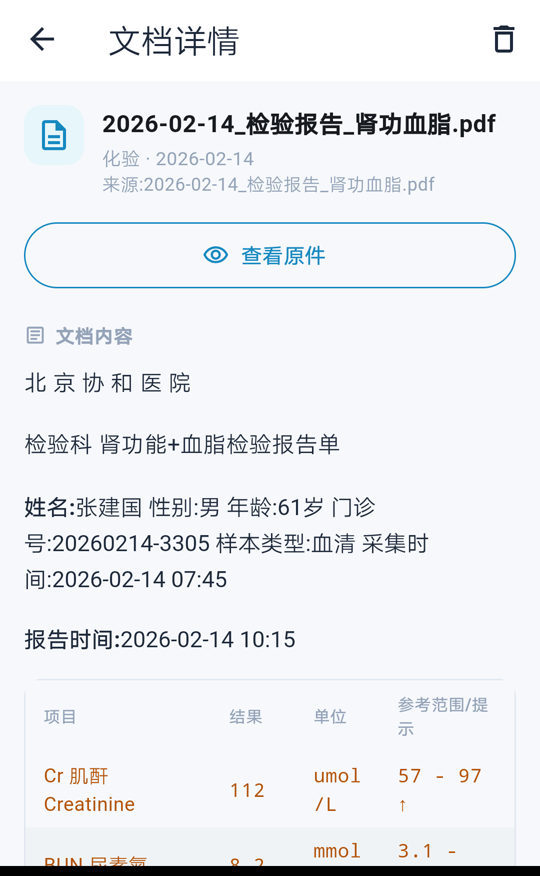
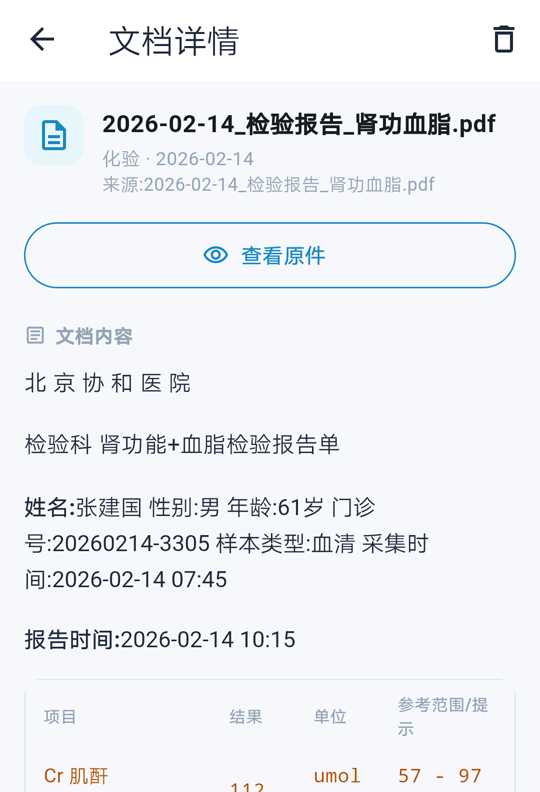
fix(site): 三张截图统一成 540x792,底边和配文对齐
上一版我把第一张顶部那半行残缺卡片裁掉,它就比另外两张矮 84px,
三张底边不齐、下面的配文也跟着错开。三张统一裁到同一高度。

diff --git a/index.html b/index.html
@@ -441,12 +441,12 @@
         <span>协和、浙大、上海交大…… 谁家看的都在这儿,不用再翻微信找照片。</span>
       </figure>
       <figure class="shot">
-        <img src="demo/shot-original.png" width="540" height="876" alt="文档详情:顶部「查看原件」按钮,下面是识别出的检验报告文字与化验值表格,肌酐 112 标为偏高">
+        <img src="demo/shot-original.png" width="540" height="792" alt="文档详情:顶部「查看原件」按钮,下面是识别出的检验报告文字与化验值表格,肌酐 112 标为偏高">
         <b>认出来的字,和原件都留着</b>
         <span>偏高偏低自己标出来;拿不准的地方,一键翻回那张原始报告。</span>
       </figure>
       <figure class="shot">
-        <img src="demo/shot-qr.png" width="540" height="876" alt="给医生看:一个二维码,下面写着本码含 22 份病历、含原件">
+        <img src="demo/shot-qr.png" width="540" height="792" alt="给医生看:一个二维码,下面写着本码含 22 份病历、含原件">
         <b>医生扫一下就看到</b>
         <span>对方不用装 App、不用加好友,浏览器里直接打开你的整段病史。</span>
       </figure>
